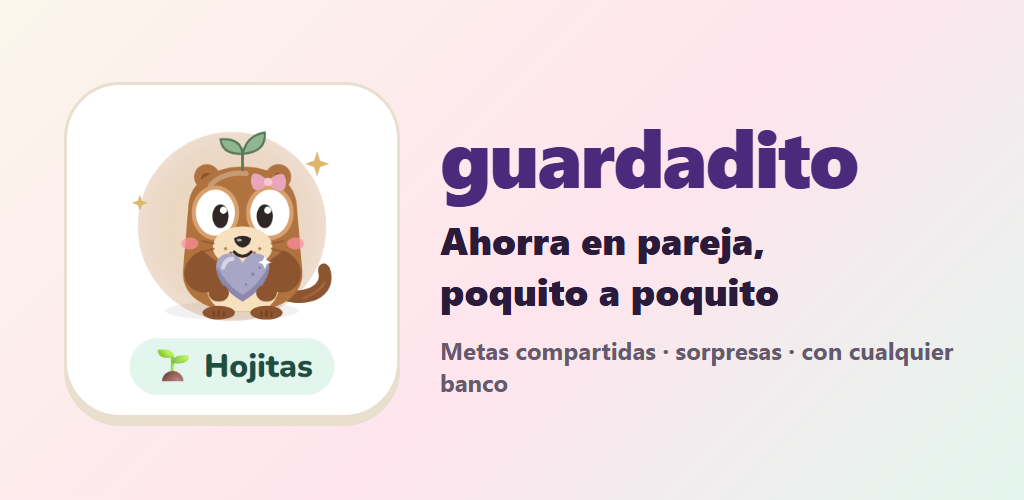
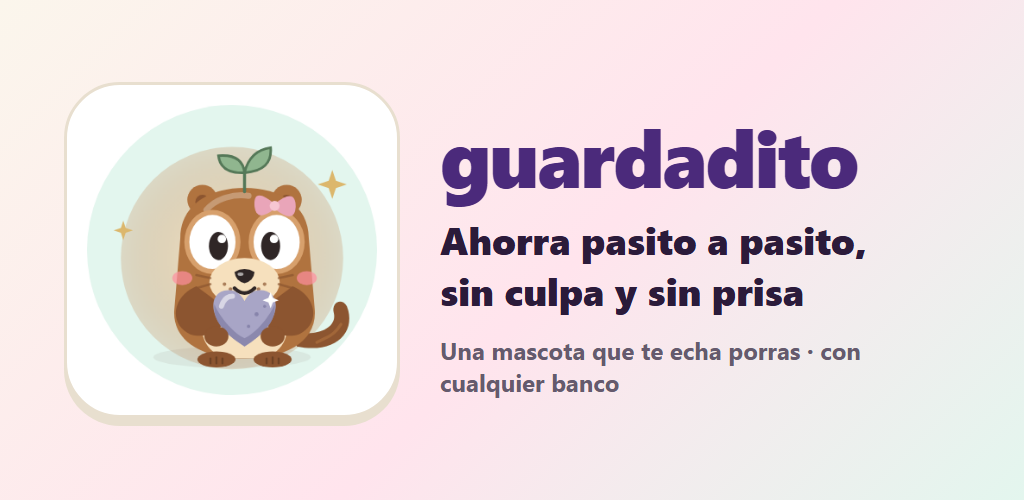
Lista para publicar: capturas y ficha de Play con la app nueva (v0.23)
- Capturas nuevas de Play (1080×1920): bienvenida, inicio, «Guardar
  dinero», detalle de una cajita y Mi mascota.
- Gráfico destacado: «Ahorra pasito a pasito, sin culpa y sin prisa».
- La ficha deja de presentarse como «ahorro en pareja»: nombre
  «Guardadito: metas de ahorro», con descripción para quien batalla para
  ahorrar.
- La guía usa las rutas nuevas (Ajustes → …), la cuenta de revisión y el
  versionCode 23.

diff --git a/docs/play/README.md b/docs/play/README.md
@@ -5,7 +5,7 @@ Todo lo que pide Play Console, listo para copiar. Paquete: `mx.guardadito.ahorro
 ## 1. Lo que solo puedes hacer tú
 
 1. **Cuenta de desarrollador**: [play.google.com/console](https://play.google.com/console), pago único de 25 USD y verificación de identidad con INE. Elige cuenta **personal**.
-2. **Prueba cerrada obligatoria**: las cuentas personales nuevas necesitan **12 testers con Android durante 14 días seguidos** antes de publicar en producción. Jade usa iPhone, así que no cuenta. Sirven amigos y familia con una cuenta de Google cada uno.
+2. **Prueba cerrada obligatoria**: las cuentas personales nuevas necesitan **12 testers con Android durante 14 días seguidos** antes de publicar en producción. Quien usa iPhone no cuenta. Sirven amigos y familia con una cuenta de Google cada uno.
 3. Responder los formularios de las secciones 4 a 6 (ya están contestados abajo).
 
 ## 2. El paquete firmado (.aab)
@@ -15,38 +15,39 @@ Todo lo que pide Play Console, listo para copiar. Paquete: `mx.guardadito.ahorro
 - **Llave de subida**: `C:\Users\gerar\Documents\Guardadito-Play\upload-key.jks`, con su contraseña en `LEEME-llave.txt`. **Haz una copia de esa carpeta en una USB o en tu nube privada.** En GitHub vive como secreto del repositorio y nunca entra al código.
   - SHA-256 del certificado de subida: `38:31:31:55:4A:E5:3D:58:8F:8B:FF:26:6A:D6:BC:0A:19:87:A1:8E:90:D7:2E:76:96:CC:E1:A7:D6:91:CC:23`
 - Activa **Play App Signing** (viene por defecto): Google guarda la llave final y tú solo usas la de subida. Si la pierdes, Play permite reiniciarla.
-- Cada versión nueva necesita un `versionCode` mayor en `android/app/build.gradle`. Hoy es 18 (0.18.0).
+- Cada versión nueva necesita un `versionCode` mayor en `android/app/build.gradle`. Hoy es 23 (0.23.0).
 - La app de la tienda es la versión pública: sin Gmail, Bitso, Banxico ni el APK de prueba (`VITE_OWNER_TOOLS` apagado en el modo `native`).
 
 ## 3. Ficha de la tienda
 
-**Nombre** (30 caracteres): `Guardadito: ahorro en pareja`
+**Nombre** (30 caracteres): `Guardadito: metas de ahorro`
 
-**Descripción breve** (80): `Metas de ahorro solas o en pareja, con tu mascota. Con cualquier banco.`
+**Descripción breve** (80): `Ahorra poquito a poquito, sin culpa, con una mascota que te echa porras.`
 
 **Descripción completa**:
 
 ```
-Guardadito te acompaña a ahorrar poquito a poquito, sola o en pareja.
+¿Te cuesta ahorrar? A casi todos. Guardadito está hecho para eso: para empezar con poquito y no rendirte.
 
-Crea cajitas para lo que sueñas (un viaje, unos tenis o tu colchoncito) y registra cada pasito. Tu dinero se queda donde ya lo tienes: Nu, Mercado Pago, tu banco o en efectivo. Guardadito no es un banco y nunca mueve tu dinero: lleva la cuenta clara y te echa porras.
+ASÍ DE FÁCIL
+• Crea una cajita para lo que sueñas: un viaje, unos tenis o tu colchoncito.
+• Cuando apartes algo, toca «Guardar dinero». Son 3 toques.
+• Tu mascota te dice cuál es tu pasito de la semana, redondeado para que sea fácil.
 
-AHORREN JUNTOS
-• Vincula tu cuenta con la de tu pareja con un código.
-• Cajitas en pareja: definen la meta y la parte de cada quien (mitad y mitad, 60/40…). Cada quien aparta desde su banco y la barra muestra cómo va cada uno, sin comparaciones.
-• Mándale sorpresas: notitas, premios que se abren al llegar al 25, 50 o 100 % y una mascota con tus propias palabras.
-• Avisos cuando tu pareja aparta para la meta de los dos.
+SIN CULPA Y SIN PRISA
+• $20 también cuentan. Cada pasito se celebra.
+• Nada de rachas que se rompen: contamos las semanas en que guardaste, y solo suben.
+• ¿Se te pasó la fecha? Le das más tiempo con un toque.
+• Un recordatorio amable a la semana, si tú quieres. Nunca de noche.
 
-¿NO TIENES CUENTA DE BANCO?
-Una persona de confianza puede ser tu guardián: le mandas tu ahorro por transferencia o en efectivo, confirma cuando le llega y los dos ven la misma cuenta.
+TU DINERO SE QUEDA DONDE YA LO TIENES
+Guardadito no es un banco y nunca mueve tu dinero. Apartas en tu banco, tu app o en efectivo, y aquí llevas la cuenta clara.
 
-TU PLAN, A TU RITMO
-• Tu siguiente pasito por semana, quincena o mes según tu fecha objetivo.
-• Una mascota que crece con tu constancia y nunca te regaña.
-• Recordatorios amables, actividad con gráfica, exportar a CSV y papelera para recuperar lo que borraste.
+TAMBIÉN EN PAREJA
+Vincula tu cuenta con un código y creen cajitas de los dos: cada quien pone su parte desde su banco.
 
 PRIVADA DESDE EL INICIO
-Sin cuenta, todo se queda en tu teléfono. Con cuenta, solo tú y tu pareja vinculada ven sus datos. Sin anuncios y sin vender datos.
+Sin cuenta, todo se queda en tu teléfono. Con cuenta gratis, tus cajitas viajan contigo a otro teléfono. Sin anuncios y sin vender datos.
 ```
 
 **Categoría**: Finanzas · **Etiquetas**: ahorro, presupuesto · **Correo de contacto**: el correo nuevo de Guardadito (el mismo que va en `CONTACT_EMAIL`, `src/support.js`) · **Sitio web**: https://gerardobr01.github.io/CAJITAS-/
@@ -54,13 +55,13 @@ Sin cuenta, todo se queda en tu teléfono. Con cuenta, solo tú y tu pareja vinc
 **Gráficos** (en `docs/play/assets/`, se regeneran con `node scripts/play-assets.mjs`, que compila la versión pública y toma las capturas):
 - Ícono 512×512: `public/icon-512.png`
 - Gráfico destacado 1024×500: `grafico-destacado.png`
-- Capturas de teléfono 1080×1920: `1-inicio.png` a `5-mas.png`
+- Capturas de teléfono 1080×1920: `1-bienvenida.png`, `2-inicio.png`, `3-guardar.png`, `4-cajita.png` y `5-mascota.png`
 
 ## 4. Política de privacidad y borrado de cuenta
 
 - Política de privacidad: https://gerardobr01.github.io/CAJITAS-/privacidad.html
 - Borrar cuenta (URL que pide Play): https://gerardobr01.github.io/CAJITAS-/borrar-cuenta.html
-- Dentro de la app: Más → Mi cuenta → «Borrar mi cuenta».
+- Dentro de la app: Ajustes → Mi cuenta → «Borrar mi cuenta».
 
 ## 5. Seguridad de los datos (formulario)
 
@@ -82,7 +83,7 @@ No recopila ubicación, contactos, historial de navegación, datos de salud ni d
 ## 6. Otros formularios de la consola
 
 - **Anuncios**: no contiene anuncios.
-- **Acceso a la app**: todo funciona sin cuenta. Para revisar «Mi pareja», crea dos cuentas de prueba, o deja en la consola una cuenta de prueba con su contraseña.
+- **Acceso a la app**: todo funciona sin cuenta. Para revisar «Ahorrar en pareja», deja en la consola la cuenta de revisión (`revision.play@guardadito.test`, contraseña en `Documents\Guardadito-Play\cuenta-revisor.txt`).
 - **Clasificación de contenido** (IARC): app de utilidad o productividad, sin violencia, sin contenido sexual, sin apuestas. Usuarios que interactúan: **sí**, solo con su pareja vinculada por código, sin chat público. Resultado esperado: «Apto para todos» o PEGI 3.
 - **Público objetivo**: 18 años o más. Con 13 a 17 tendrías que cumplir la política de Familias; mejor no marcarlo por ahora.
 - **Apps financieras**: declara que **no** ofrece préstamos, inversión, banca ni pagos. Es una herramienta para registrar ahorro y nunca mueve dinero.
